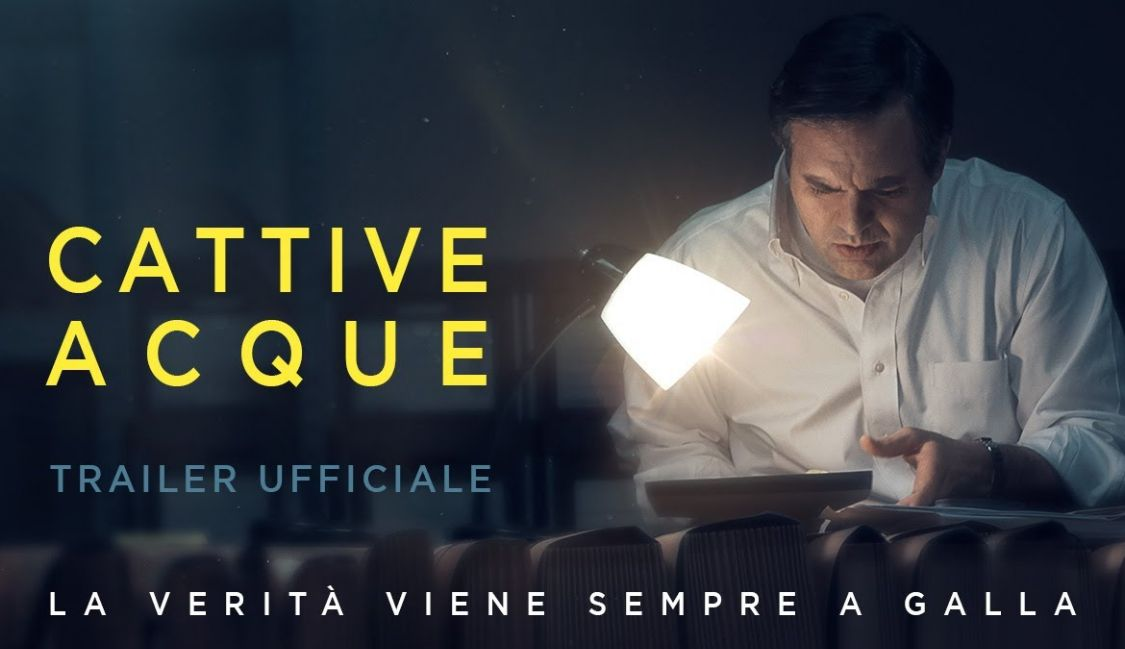
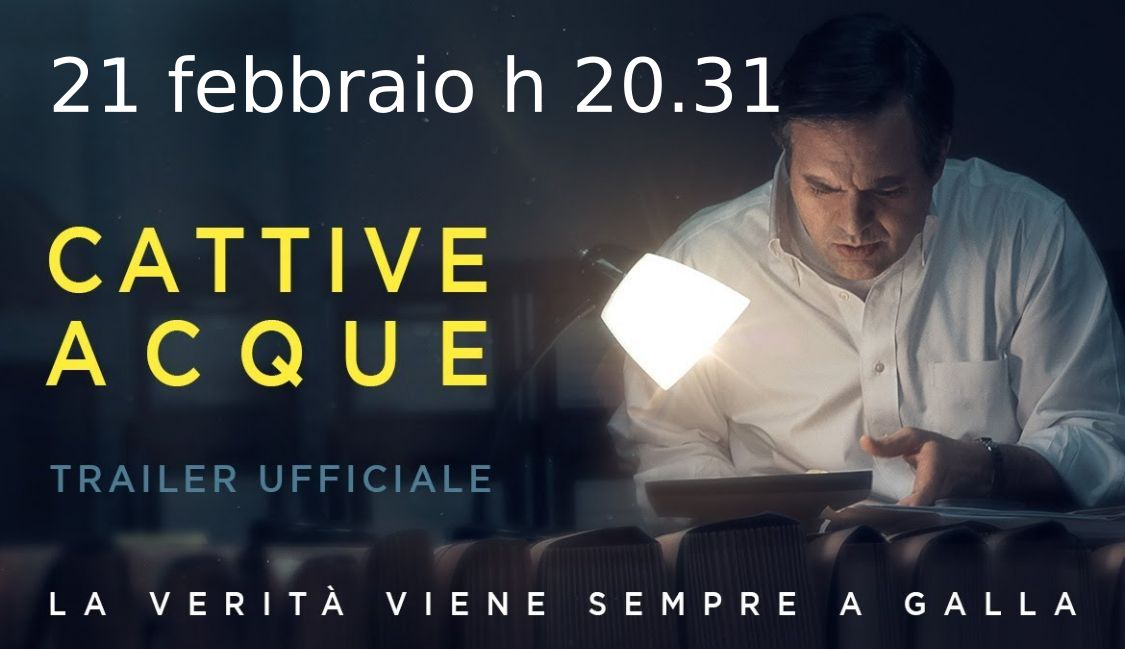
migliorata interfaccia eccepizze

Changed region(s): [[0.1556, 0.0616, 0.6844, 0.1849], [0.0311, 0.0924, 0.1244, 0.1849]]

diff --git a/iniziative/EccePizze.md b/iniziative/EccePizze.md
@@ -14,24 +14,11 @@ sections:
     - title: Prenota Subito
       url: 'https://www.eventbrite.it/e/biglietti-eccepizze-202122-secondo-tempo-265002057287?fbclid=IwAR2zz_nCUJwKdJdRi5ZaxGpGqPJUWUMJKnfF2EvbF8MyKi2l0qpuRgiSmMs'
       class: btn-light
-    - title: Trailer
+    - title: Programma e Trailer
       url: '#portfolio'
-      class: btn-light
-    - title: Programma
-      url: '#programma'
       class: btn-light
     - title: Evento Facebook
       url: 'https://fb.me/e/27muREBOC'
-      class: btn-light
-
-- type: call-to-action.html
-  section_id: programma
-  background_style: bg-secondary
-  title: 📅 Programma dal 21 Febbraio al 4 Aprile
-  text: 21 Febbraio<br>20.31 Cattive Acque<br>22.31 Il buco<br><br>28 Febbraio<br>20.31 Jojo Rabbit<br>22.31 The lighthouse<br><br>7 Marzo<br>20.31 Pinocchio<br>22.31 Tenet<br><br>14 Marzo<br>20.31 L’ufficiale e la spia<br>22.31 Morto uno Stalin se ne fa un altro<br><br>21 Marzo<br>20.31 Tutto il mio folle amore<br>22.31 Le sorelle Macaluso<br><br>28 Marzo<br><br>20.31 I miserabili<br>22.31 Favolacce<br><br>4 Aprile<br>20.31 Europa<br>22.31 The Milky Way
-  actions:
-    - title: Guarda i Trailer
-      url: '#portfolio'
       class: btn-light
 
 - type: portfolio.html
